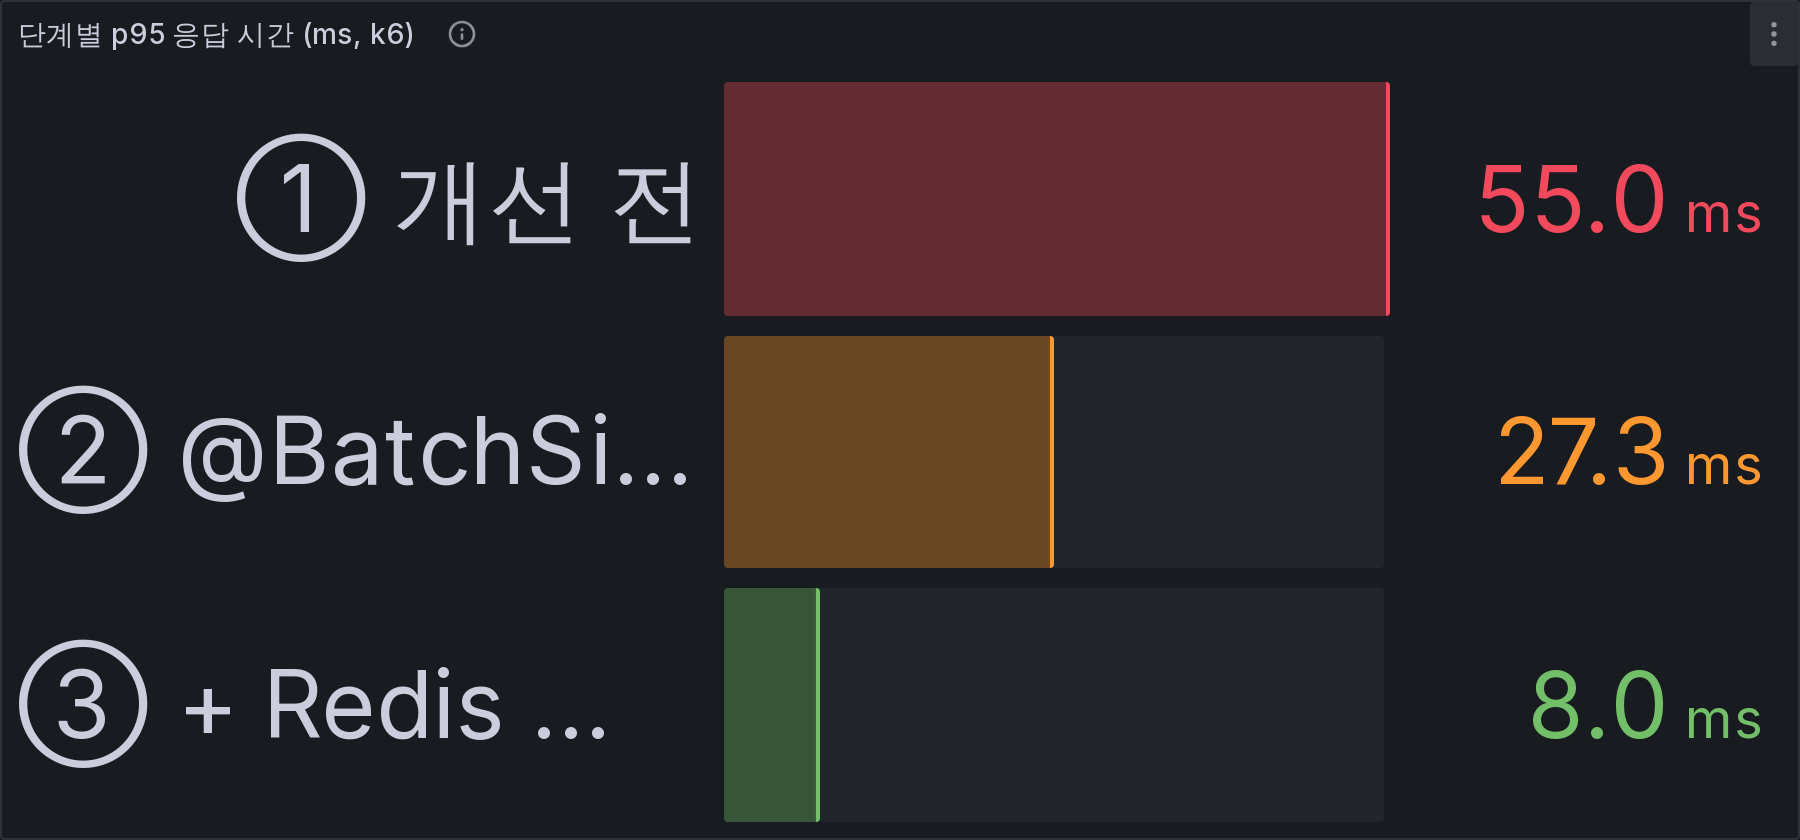
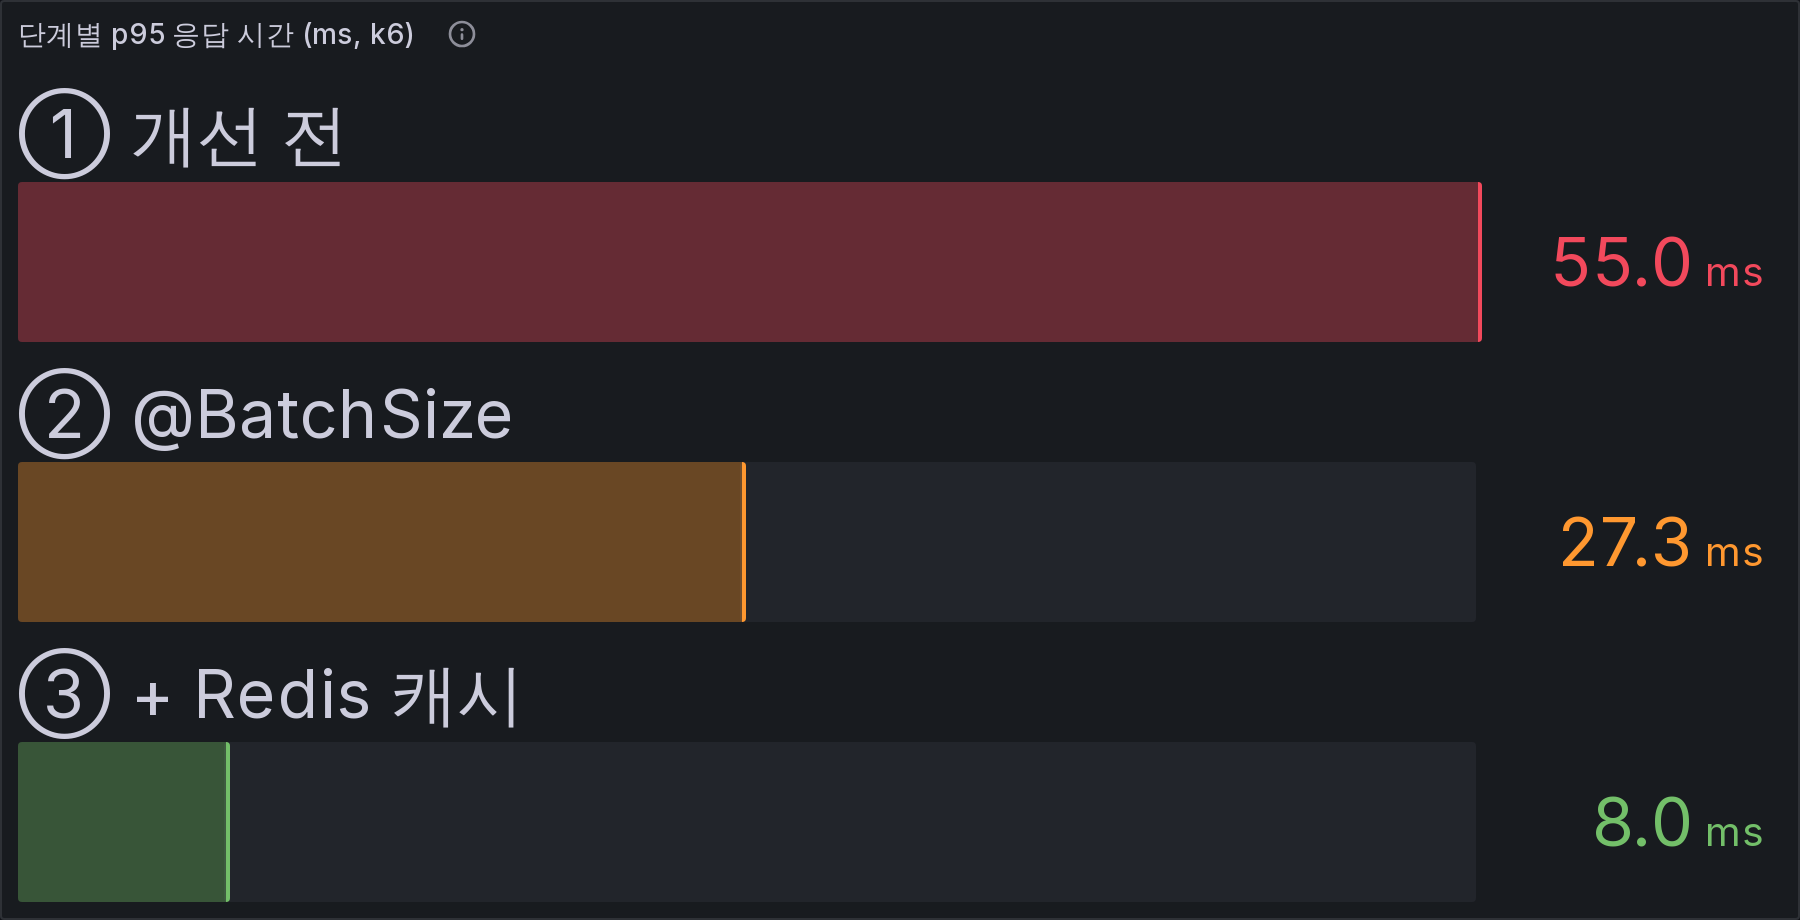
성능 그림: 막대의 단계 이름 잘림·패널 메뉴 제거, p95·SQL 막대 숫자를 원본과 일치시킴
- 단계 이름을 막대 위에 한 줄로(왼쪽에 두면 "② @BatchSi…"처럼 잘렸다). 찍을 때 마우스를 빼고 패널 메뉴(⋮)를 숨김
- 요청당 SQL 막대: increase() 는 구간 끝을 추정해 20.86 / 3.97 로 어긋났다. 단계마다 JVM 을 새로 띄워
  카운터가 0 에서 시작하므로 마지막 값끼리 나눠 앱이 센 값(21.00 / 4.00 / 0.00)과 같게 했다
- 처리량 막대: k6 요약값(요청 수 ÷ k6 가 잰 실행 시간)은 Prometheus 구간 값으로 똑같이 못 만든다(중앙값 1,556 vs 1,676).
  숫자가 두 개로 보이지 않게 값은 숨기고 길이만. p95 막대는 원래 원본과 같았다(55.0 / 27.3 / 8.0)
- 측정은 다시 하지 않았다. 같은 측정(2026-11-01 09:18)의 Prometheus 데이터로 그림만 다시 뽑음

diff --git a/perf/grafana/make-dashboard.py b/perf/grafana/make-dashboard.py
@@ -22,7 +22,8 @@ def overrides():
 pid = 0
 
 
-def panel(kind, title, desc, expr, unit, x, y, w, h, legend="{{state}}", instant=False, decimals=None, extra=None):
+def panel(kind, title, desc, expr, unit, x, y, w, h, legend="{{state}}", instant=False, decimals=None, extra=None,
+          extra_options=None):
     global pid
     pid += 1
     p = {
@@ -45,10 +46,13 @@ def panel(kind, title, desc, expr, unit, x, y, w, h, legend="{{state}}", instant
         p["fieldConfig"]["defaults"]["custom"] = {"lineWidth": 2, "fillOpacity": 12, "showPoints": "never", "spanNulls": False}
         p["options"] = {"legend": {"displayMode": "list", "placement": "bottom"}, "tooltip": {"mode": "multi"}}
     if kind == "bargauge":
+        # 단계 이름은 막대 위에 한 줄로(왼쪽에 두면 폭이 모자라 "② @BatchSi…"처럼 잘렸다)
         p["options"] = {"orientation": "horizontal", "displayMode": "basic", "showUnfilled": True,
-                        "valueMode": "color", "namePlacement": "left", "sizing": "auto",
+                        "valueMode": "color", "namePlacement": "top", "sizing": "auto",
                         "reduceOptions": {"calcs": ["lastNotNull"], "fields": "", "values": False}}
         p["fieldConfig"]["defaults"]["color"] = {"mode": "fixed", "fixedColor": "#8AB8FF"}
+    if extra_options:
+        p["options"].update(extra_options)
     if extra:
         p.update(extra)
     return p
@@ -59,26 +63,30 @@ panels = [
     {"id": 100, "type": "text", "title": "", "gridPos": {"x": 0, "y": 0, "w": 24, "h": 3},
      "options": {"mode": "markdown", "content":
         "**GET /api/problems (50건) · k6 50 VU · think-time 0 · 단계마다 워밍업 30초 + 본 측정 30초×2 · JVM 재시작·캐시 비움**  \n"
-        "위 막대는 대시보드 시간 범위 안의 *본 측정* 구간만 모은 값이다. 표에 옮길 숫자의 정본은 `perf/results/<시각>/summary.md`(k6 원본 요약)다. "
-        "선 그래프의 회색 띠는 단계 구간(annotation)이다."}},
-    panel("bargauge", "단계별 처리량 (req/s)",
-          "본 측정 구간의 10초 처리량 값들의 중앙값(실행이 바뀌는 순간의 빈 구간에 덜 흔들린다). 정본은 summary.md 의 k6 요약값",
+        "처리량 막대는 **길이(비율)만** 보여 준다. 숫자의 정본은 `perf/results/<시각>/summary.md`(k6 요약: 요청 수 ÷ k6 가 잰 실행 시간, 2회 중앙값)다. "
+        "p95·SQL 막대의 숫자는 그 표와 같다. 선 그래프의 회색 띠는 단계 구간(annotation)이다."}},
+    # 처리량: k6 요약값은 요청 수 ÷ k6 가 잰 실행 시간이라 Prometheus 로는 똑같이 못 만든다(10초 구간 중앙값은 시작·끝의
+    # 덜 찬 구간 때문에 약 7% 낮았다: 1,556 vs 1,676). 숫자가 두 개로 보이지 않게 값은 숨기고 막대 길이만 쓴다
+    panel("bargauge", "단계별 처리량 (막대 길이 = 비율, 수치는 k6 요약)",
+          "본 측정 구간의 10초 처리량 값들의 중앙값으로 길이만 그린다. 수치는 summary.md 의 k6 요약값(1,676 / 3,603 / 12,950)",
           f'quantile_over_time(0.5, (sum by (state) (rate(k6_http_reqs_total{{{RUN}}}[10s])))[$__range:5s])',
-          "suffix: req/s", 0, 3, 8, 7, instant=True, decimals=0),
+          "suffix: req/s", 0, 3, 8, 7, instant=True, decimals=0, extra_options={"valueMode": "hidden"}),
     panel("bargauge", "단계별 p95 응답 시간 (ms, k6)",
-          "본 측정 각 회의 최종 p95(k6 가 실행 시작부터 누적 계산)를 평균한 값",
+          "본 측정 2회 각각의 최종 p95(k6 가 실행 시작부터 누적 계산)의 평균 = 2회 중앙값. summary.md 와 같은 값",
           f'avg by (state) (last_over_time(k6_http_req_duration_p95{{{RUN}}}[$__range])) * 1000',
           "ms", 8, 3, 8, 7, instant=True, decimals=1),
+    # SQL: 단계마다 JVM 을 새로 띄워 카운터가 0 에서 시작하므로 마지막 값끼리 나누면 앱이 센 값과 같다(21.00 / 4.00 / 0.00).
+    # increase() 는 구간 가장자리를 추정해서 20.86 처럼 어긋났다
     panel("bargauge", "단계별 요청 1회당 SQL 수",
-          "앱이 실행한 SQL(Hibernate prepared statement) ÷ /api/problems 요청 수. 워밍업 포함, 시간 범위 전체",
-          'sum by (state) (increase(hibernate_statements_total{status="prepared"}[$__range])) / '
-          'sum by (state) (increase(http_server_requests_seconds_count{uri="/api/problems"}[$__range]))',
+          "앱이 실행한 SQL(Hibernate prepared statement) ÷ /api/problems 요청 수. 워밍업 포함, 단계 전체(JVM 기동부터)",
+          'max by (state) (max_over_time(hibernate_statements_total{status="prepared"}[$__range])) / '
+          'sum by (state) (max_over_time(http_server_requests_seconds_count{uri="/api/problems"}[$__range]))',
           "short", 16, 3, 8, 7, instant=True, decimals=2),
     panel("timeseries", "처리량 (req/s, k6)", "부하 도구가 받은 응답 수. 워밍업 포함",
           "sum by (state) (rate(k6_http_reqs_total[10s]))", "reqps", 0, 10, 12, 8),
     panel("timeseries", "p95 응답 시간 (ms, k6, 본 측정)", "k6 가 계산한 p95. 실행(run)마다 처음부터 누적이라 시작 직후에는 출렁인다",
           f"max by (state) (k6_http_req_duration_p95{{{RUN}}}) * 1000", "ms", 12, 10, 12, 8),
-    panel("timeseries", "요청 1회당 SQL 수", "15초 구간의 SQL 수 ÷ 요청 수. ① 20 → ② 4 → ③ 0(캐시 적중이면 DB 를 읽지 않는다)",
+    panel("timeseries", "요청 1회당 SQL 수", "15초 구간의 SQL 수 ÷ 요청 수. ① 21 → ② 4 → ③ 0(캐시 적중이면 DB 를 읽지 않는다)",
           'sum by (state) (rate(hibernate_statements_total{status="prepared"}[15s])) / '
           'sum by (state) (rate(http_server_requests_seconds_count{uri="/api/problems"}[15s]))',
           "short", 0, 18, 12, 8, decimals=1),

diff --git a/README.md b/README.md
@@ -110,7 +110,7 @@ codeXray는 알고리즘 문제를 풀고, 풀이·메모·노트를 남기고, 
 |---|---|---|
 | ![처리량](perf/results/20261101-0918/grafana/bar-throughput.png) | ![p95](perf/results/20261101-0918/grafana/bar-p95.png) | ![요청당 SQL](perf/results/20261101-0918/grafana/ts-sql-per-request.png) |
 
-<sub>Grafana 막대는 10초 구간 값의 중앙값이라 표(k6 요약)보다 7% 정도 낮게 나옵니다. 인용할 숫자는 표를 씁니다.</sub>
+<sub>p95·SQL 막대의 숫자는 표와 같습니다. 처리량 막대는 길이(비율)만 보여 줍니다. 표의 처리량은 k6 요약(요청 수 ÷ k6가 잰 실행 시간)이라 Prometheus의 구간 값으로는 똑같이 만들 수 없어서, 숫자가 두 개로 보이지 않게 막대에서는 숨겼습니다.</sub>
 
 - **같은 조건으로 누구나 다시 잴 수 있게** 만들었습니다. [`perf/run-backend.sh`](perf/README.md) 한 번이면 ①②③ 코드 상태를 패치로 만들어(운영 코드에 측정용 스위치 없음) 측정 전용 Postgres·Redis·Prometheus·Grafana를 띄우고, k6 원본 JSON과 서버 지표(Hibernate SQL 수, Redis 키 수)를 저장합니다.
 - **요청당 SQL 21** = 본문 1 + count 1 + 태그 연결 배치 1 + 태그 개별 조회 18(첫 페이지 50문제의 서로 다른 태그 수). ②의 4는 회귀 테스트(`ProblemListQueryCountTest`)로 상한을 고정했습니다.

diff --git a/perf/README.md b/perf/README.md
@@ -61,7 +61,8 @@ perf/run-frontend.sh    # 이미지 4개 빌드 + 측정, 약 10분
 
 ## 결과를 옮겨 쓸 때 지킬 것
 
-- **숫자의 정본은 `summary.md`(원본 JSON에서 계산)다.** Grafana 막대는 시각화이고, 집계 방식이 달라 소수점이 조금 다를 수 있다.
+- **숫자의 정본은 `summary.md`(원본 JSON에서 계산)다.** Grafana 막대 중 p95·요청당 SQL 은 같은 값이 나오게 쿼리를 맞췄다(SQL 은 단계마다 JVM 을 새로 띄워 카운터가 0 에서 시작하므로 마지막 값끼리 나눈다. `increase()` 는 구간 끝을 추정해 20.86 처럼 어긋났다).
+  처리량은 k6 요약값이 "요청 수 ÷ k6 가 잰 실행 시간(약 28초)"이라 Prometheus 구간 값으로는 똑같이 못 만든다(10초 구간 중앙값은 약 7% 낮았다). 그래서 처리량 막대는 숫자를 숨기고 길이만 보여 준다.
 - 로컬 한 대에서 앱·DB·부하 도구가 CPU를 나눠 쓴 값이다. **운영 서버의 처리량이 아니다.** 절대값보다 같은 조건에서의 배수를 본다.
 - ③은 같은 요청(같은 캐시 키)만 반복한 값이라 **캐시 적중률이 사실상 100%**다. 실제 서비스의 적중률이 아니다.
 - 화면 측정은 로컬 이미지 + 네트워크 흉내다. `4-proxy-nogzip`/`5-proxy`도 운영 경로를 **재현**한 것이지 운영 실측이 아니다.
